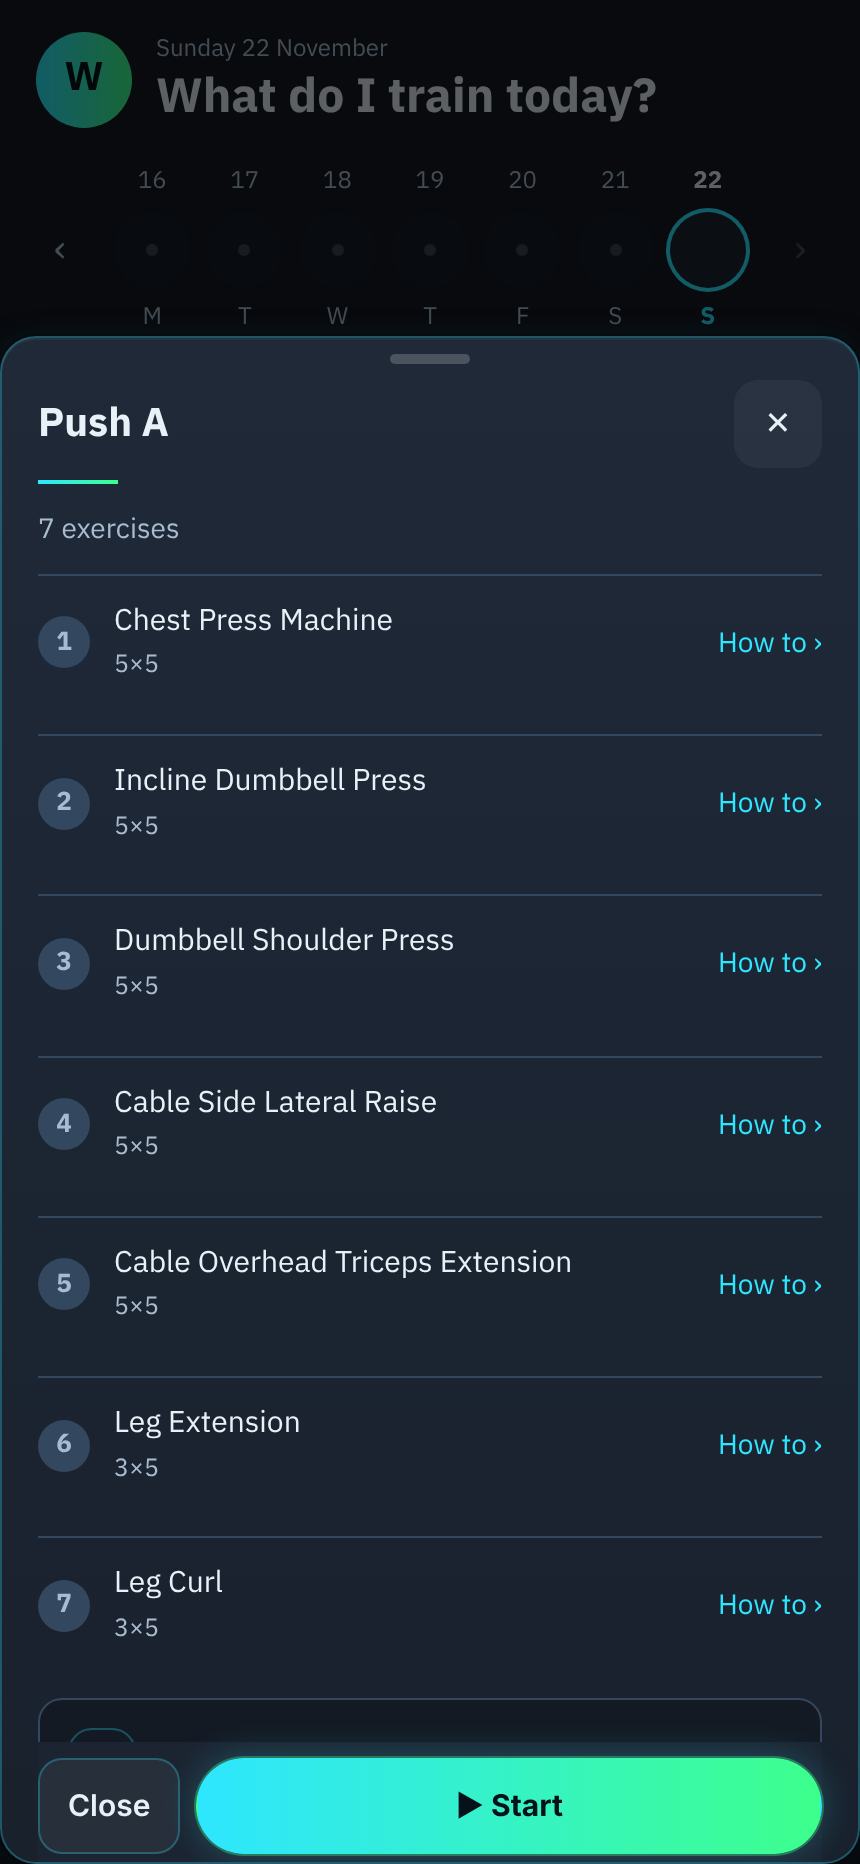
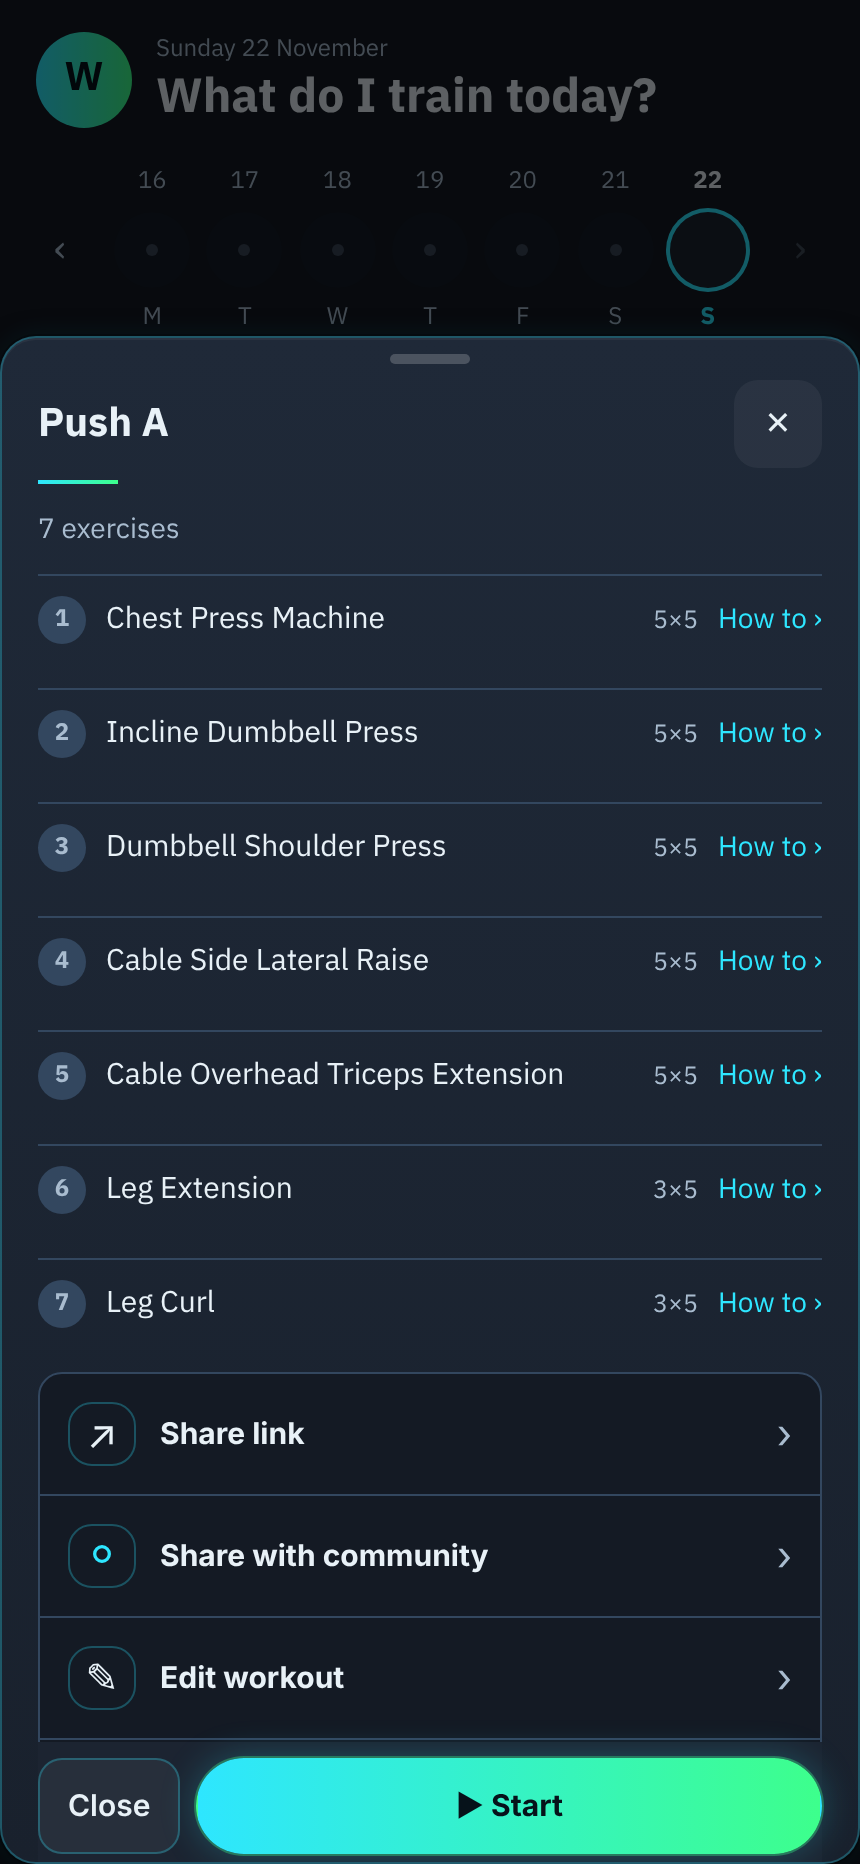
Program sheet: one line per exercise (#159)
* docs: Today critique snapshot + redesign intent

Claude-Session: https://claude.ai/code/session_01TA1QFnqgBxBRFsiXemJ9Lg

* chore: ignore impeccable live-server state

Claude-Session: https://claude.ai/code/session_01TA1QFnqgBxBRFsiXemJ9Lg

* Today: plan first, one start button, inline meal tick, folded recovery

Claude-Session: https://claude.ai/code/session_01TA1QFnqgBxBRFsiXemJ9Lg

* docs: merge PR automatically once npm test passes

Claude-Session: https://claude.ai/code/session_01TA1QFnqgBxBRFsiXemJ9Lg

* docs: no OK wait between steps

Claude-Session: https://claude.ai/code/session_01TA1QFnqgBxBRFsiXemJ9Lg

* Today: recovery-aware start, undo on meal tick, progress bars, direct start

Claude-Session: https://claude.ai/code/session_01TA1QFnqgBxBRFsiXemJ9Lg

* Today: rested program leads, rest-day exit, inline meal cancel, over-target bar

Claude-Session: https://claude.ai/code/session_01TA1QFnqgBxBRFsiXemJ9Lg

* Today: body weight + 7-day change + weigh-in in the body card

Claude-Session: https://claude.ai/code/session_01TA1QFnqgBxBRFsiXemJ9Lg

* Today: body card shows weight, muscle mass and body fat

Claude-Session: https://claude.ai/code/session_01TA1QFnqgBxBRFsiXemJ9Lg

* Today: weigh-in opens the full body-log sheet

Claude-Session: https://claude.ai/code/session_01TA1QFnqgBxBRFsiXemJ9Lg

* Today: headline matches suggestion, inline cancel, blank weigh-in, fits above tab bar

Claude-Session: https://claude.ai/code/session_01TA1QFnqgBxBRFsiXemJ9Lg
[…]

diff --git a/public/index.html b/public/index.html
@@ -8,11 +8,11 @@
 <meta name="apple-mobile-web-app-status-bar-style" content="black-translucent">
 <meta name="apple-mobile-web-app-title" content="WeightGram">
 <link rel="manifest" href="/manifest.webmanifest">
-<link rel="apple-touch-icon" href="/apple-touch-icon.png?v=138581">
+<link rel="apple-touch-icon" href="/apple-touch-icon.png?v=138582">
 <title>WeightGram</title>
 <link rel="stylesheet" href="https://fonts.googleapis.com/css2?family=IBM+Plex+Sans+Thai:wght@400;500;700&family=IBM+Plex+Mono:wght@400;500&family=Share+Tech+Mono&display=swap">
 <style>:root{padding-top:env(safe-area-inset-top,0px);padding-bottom:env(safe-area-inset-bottom,0px)}*{-webkit-tap-highlight-color:transparent}body{margin:0;font-size:var(--t-sm);font-family:system-ui,sans-serif}img{max-width:100%}[hidden]{display:none!important}</style>
-<link rel="stylesheet" href="/css/app.css?v=138581">
+<link rel="stylesheet" href="/css/app.css?v=138582">
 </head><body>
 
 <div class="wrap">
@@ -277,37 +277,37 @@
   </div>
 </div>
 
-<script src="/js/core.js?v=138581"></script>
-<script src="/js/food.js?v=138581"></script>
-<script src="/js/locations.js?v=138581"></script>
-<script src="/js/programs.js?v=138581"></script>
-<script src="/js/run.js?v=138581"></script>
-<script src="/js/workout.js?v=138581"></script>
-<script src="/js/exercise-edit.js?v=138581"></script>
-<script src="/js/edit-tx.js?v=138581"></script>
-<script src="/js/exercise-library.js?v=138581"></script>
-<script src="/js/program-manager.js?v=138581"></script>
-<script src="/js/hero.js?v=138581"></script>
-<script src="/js/rest-timer.js?v=138581"></script>
-<script src="/js/auth.js?v=138581"></script>
-<script src="/js/push.js?v=138581"></script>
-<script src="/js/data-io.js?v=138581"></script>
-<script src="/js/sync.js?v=138581"></script>
-<script src="/js/muscle-map.js?v=138581"></script>
-<script src="/js/progress.js?v=138581"></script>
-<script src="/js/history-chart.js?v=138581"></script>
-<script src="/js/stats-extra.js?v=138581"></script>
-<script src="/js/meal-plan.js?v=138581"></script>
-<script src="/js/undo.js?v=138581"></script>
-<script src="/js/home.js?v=138581"></script>
-<script src="/js/share.js?v=138581"></script>
-<script src="/js/explore.js?v=138581"></script>
-<script src="/js/onboarding.js?v=138581"></script>
-<script src="/js/account.js?v=138581"></script>
-<script src="/js/share-card.js?v=138581"></script>
-<script src="/js/number-pad.js?v=138581"></script>
-<script src="/js/refresh.js?v=138581"></script>
-<script src="/js/app.js?v=138581"></script>
+<script src="/js/core.js?v=138582"></script>
+<script src="/js/food.js?v=138582"></script>
+<script src="/js/locations.js?v=138582"></script>
+<script src="/js/programs.js?v=138582"></script>
+<script src="/js/run.js?v=138582"></script>
+<script src="/js/workout.js?v=138582"></script>
+<script src="/js/exercise-edit.js?v=138582"></script>
+<script src="/js/edit-tx.js?v=138582"></script>
+<script src="/js/exercise-library.js?v=138582"></script>
+<script src="/js/program-manager.js?v=138582"></script>
+<script src="/js/hero.js?v=138582"></script>
+<script src="/js/rest-timer.js?v=138582"></script>
+<script src="/js/auth.js?v=138582"></script>
+<script src="/js/push.js?v=138582"></script>
+<script src="/js/data-io.js?v=138582"></script>
+<script src="/js/sync.js?v=138582"></script>
+<script src="/js/muscle-map.js?v=138582"></script>
+<script src="/js/progress.js?v=138582"></script>
+<script src="/js/history-chart.js?v=138582"></script>
+<script src="/js/stats-extra.js?v=138582"></script>
+<script src="/js/meal-plan.js?v=138582"></script>
+<script src="/js/undo.js?v=138582"></script>
+<script src="/js/home.js?v=138582"></script>
+<script src="/js/share.js?v=138582"></script>
+<script src="/js/explore.js?v=138582"></script>
+<script src="/js/onboarding.js?v=138582"></script>
+<script src="/js/account.js?v=138582"></script>
+<script src="/js/share-card.js?v=138582"></script>
+<script src="/js/number-pad.js?v=138582"></script>
+<script src="/js/refresh.js?v=138582"></script>
+<script src="/js/app.js?v=138582"></script>
 
 <div id="rec-wrap" class="stack" style="gap:10px" hidden><div class="rcf-head"><div class="sec-t" data-i="การฟื้นตัวของกล้ามเนื้อ">การฟื้นตัวของกล้ามเนื้อ</div><button class="btn sm" id="rec-cfg">⚙ <span data-i="ตั้งเวลาฟื้นตัว">ตั้งเวลาฟื้นตัว</span></button></div><div class="card" id="rec-body"></div></div>
 </body></html>

diff --git a/public/js/locations.js b/public/js/locations.js
@@ -337,7 +337,7 @@ function openSwitchAsk(k){const o=PROGS[cur].name,n=PROGS[k].name,s=woProgress()
 // tapping a row (not ▶): details sheet — exercises, place, edit, remove, Start
 function openPlanItem(k){const p=PROGS[k],cx=isCardio(p),L=locById(locOf(p)==="*"?p.lastLoc:locOf(p))||hereLoc(),ip=inProg(k);
   const last=logs.filter(l=>l.prog===k).slice(-1)[0];
-  const ex=cx?"":p.ex.map((e,i)=>`<button type="button" class="pi-ex" data-pihow="${i}"><i class="pi-no">${i+1}</i><span class="pi-nm">${esc(e.n)}<small>${e.s}×${esc(e.r)}</small></span><span class="pi-how">${t("วิธีเล่น")} ›</span></button>`).join("");
+  const ex=cx?"":p.ex.map((e,i)=>`<button type="button" class="pi-ex" data-pihow="${i}"><i class="pi-no">${i+1}</i><span class="pi-nm"><span class="pi-t">${esc(e.n)}</span><small>${e.s}×${esc(e.r)}</small></span><span class="pi-how">${t("วิธีเล่น")} ›</span></button>`).join("");
   openGen(esc(p.name),`<div class="pi-top"><small class="note">${cx?t("คาร์ดิโอ"):nU(p.ex.length,"ท่า")}${last?" · "+t("ล่าสุด")+" "+thDate(last.date,{day:"numeric",month:"short"}):""}</small></div>${ex}
     <div class="pm-menu">${cx?"":`<button class="menu-row" data-pis2><span class="mi">↗</span><span class="mt"><b>${t("แชร์ลิงก์")}</b></span><span class="mc">›</span></button><button class="menu-row" data-pub2><span class="mi">🌐</span><span class="mt"><b>${t("แชร์ให้ชุมชน")}</b></span><span class="mc">›</span></button><button class="menu-row" data-pie><span class="mi">✎</span><span class="mt"><b>${t("แก้โปรแกรม")}</b></span><span class="mc">›</span></button>`}${ip?"":`<button class="menu-row" data-pid><span class="mi">✕</span><span class="mt"><b>${t("เอาออกจากวันนี้")}</b></span></button>`}</div>
     <div class="actions sheet-act"><button class="btn" data-gen-close>${t("ปิด")}</button><button class="btn primary" data-pis style="flex:1">▶ ${t(ip?"กลับไปเล่น":"เริ่ม")}</button></div>`,

diff --git a/public/css/app.css b/public/css/app.css
@@ -1395,3 +1395,10 @@ body.on-gym.wo-focus .tx-bar{bottom:var(--tabh)!important}
 .pi-no{flex:none;width:26px;height:26px;border-radius:50%;display:grid;place-items:center;background:var(--line);color:var(--muted);font:600 13px/1 var(--f-body);font-style:normal;font-variant-numeric:tabular-nums}
 .pi-nm{flex:1;min-width:0;display:grid;gap:2px}.pi-nm small{color:var(--muted);font-variant-numeric:tabular-nums}
 .pi-how{flex:none;color:var(--cyan);font-size:var(--t-sm,14px);white-space:nowrap}
+/* program sheet: one line per exercise */
+.pi-ex{padding:10px 0;gap:10px}
+.pi-nm{display:flex;align-items:baseline;gap:8px}
+.pi-nm{white-space:nowrap;overflow:hidden;text-overflow:ellipsis}
+.pi-nm small{flex:none;order:2;margin-left:auto}
+.pi-no{width:24px;height:24px;font-size:12px}
+.pi-t{min-width:0;overflow:hidden;text-overflow:ellipsis;white-space:nowrap}

diff --git a/docs/work/2026-11-21-train-calm/plan-oneline.md b/docs/work/2026-11-21-train-calm/plan-oneline.md
@@ -1,0 +1,3 @@
+# Program sheet one line
+- [x] เลข · ชื่อ · เซ็ต×ครั้ง · How to บรรทัดเดียว (ชื่อยาวตัด …)
+- [x] npm test, screenshot
